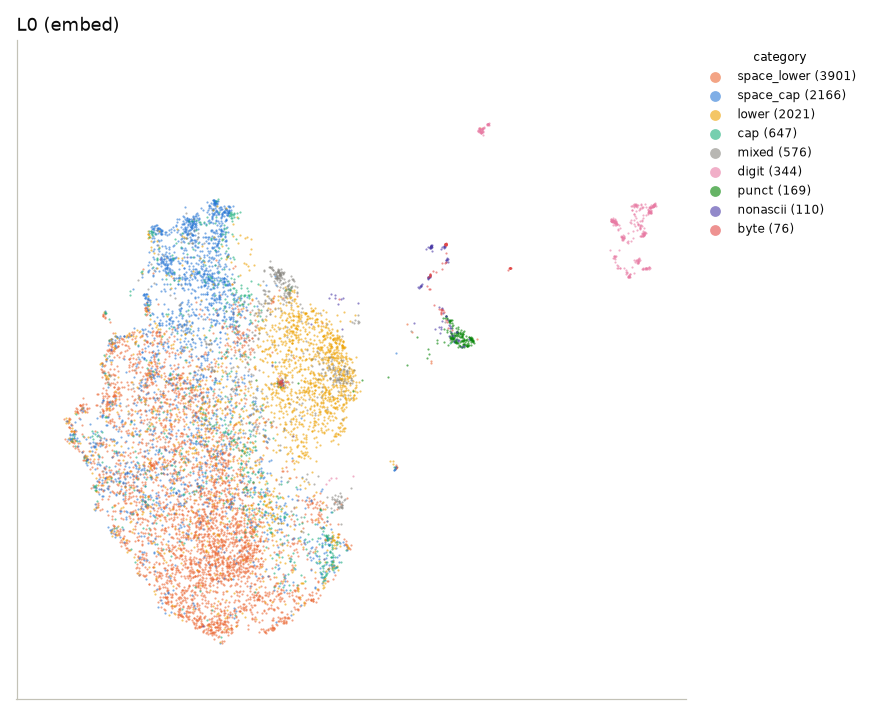
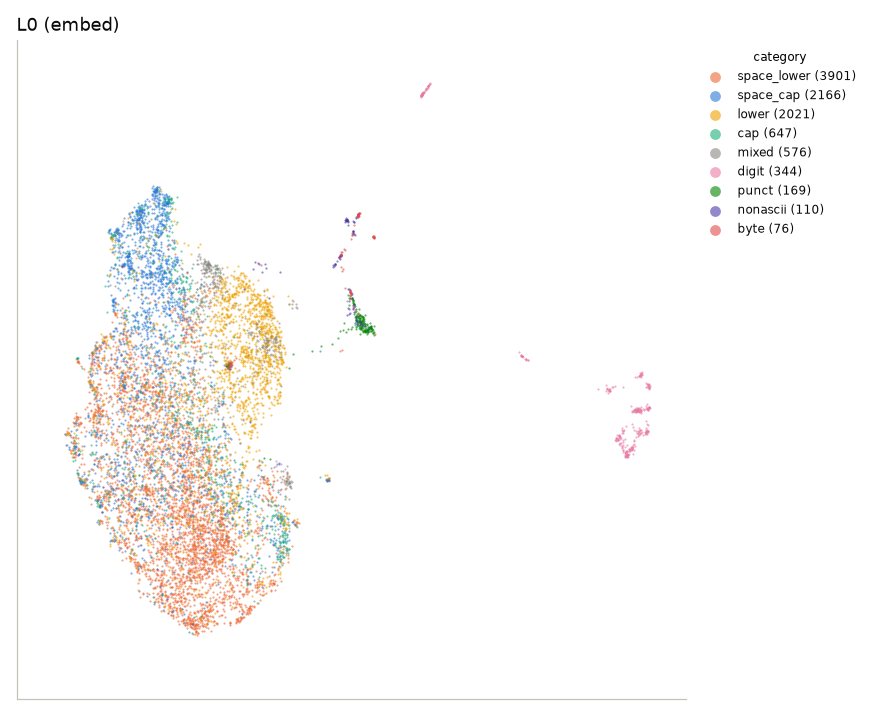
Q2: drop_top_pcs=2 and row_norm_first variants; refresh figures for the pre-LN frame
Middle plateau and GPT-2 LN cliff survive both; Pythia's L5->L6 pre-LN dip was the
pipeline. FINDINGS section 9, README section, Q2 answered. docs/results figures
regenerated (frame indices shifted by one after the pre-LN frame).

diff --git a/docs/FINDINGS.md b/docs/FINDINGS.md
@@ -217,3 +217,55 @@ something big happens. Added to OPEN_QUESTIONS under Q2.
 Random init sanity check: an untrained LN has gain 1, bias 0, so it should only
 rescale. Its pre -> post overlap is 0.91 (not 1.0 because the LN also subtracts each
 row's own mean).
+
+## 9. Q2: does the normalization change the story? (2026-09-24)
+
+Two variants of the normalize stage, both trained models, everything else identical
+(same extract, same 10k subsample): `drop2` = `drop_top_pcs: 2`, `rownorm` =
+`row_norm_first: true` (unit-norm rows, *then* center, then unit-norm again). Raw-act
+metrics (anisotropy, top-PC share) are identical across variants by construction.
+Plots: `docs/results/q2_*.png`.
+
+Consecutive kNN overlap, base / drop2 / rownorm:
+
+| transition | pythia70m | gpt2 |
+|---|---|---|
+| L0 -> L1 | 0.36 / 0.41 / 0.37 | 0.42 / 0.44 / 0.42 |
+| middle, range | 0.36-0.56 / 0.40-0.57 / 0.39-0.58 | 0.68-0.78 / 0.69-0.78 / 0.69-0.79 |
+| L(n-1) -> pre-LN | **0.24** / 0.46 / 0.45 | 0.40 / 0.61 / 0.57 |
+| pre-LN -> post-LN | **0.29** / 0.68 / 0.79 | **0.09** / 0.18 / 0.15 |
+| post-LN -> unembed | 0.14 / 0.14 / 0.14 | 0.05 / 0.10 / 0.07 |
+
+What holds:
+
+- **The stable middle is not a normalization artefact.** Middle-layer overlap moves by
+  at most ~0.05 in either model (GPT-2 L10 -> L11 is the biggest mover, 0.68 -> 0.76
+  under rownorm). k-means ARI agrees.
+- **GPT-2's final-LN cliff is real.** 0.09 becomes 0.18 / 0.15, still by far the worst
+  step, and drift-from-L0 still collapses at post-LN (0.05 / 0.10 / 0.07).
+- **Q3 survives.** Pythia's embed-vs-unembed overlap (0.22) stays above every L6 frame
+  vs the unembed under every variant (0.08 to 0.15).
+
+What doesn't:
+
+- **Pythia's L5 -> L6 pre-LN "reshuffle" was the pipeline.** Either variant turns it
+  into an ordinary step (0.46 / 0.45), and pre-LN purity comes back from 0.59 to 0.68.
+  Confirms section 8: center-then-unit-norm magnifies a per-token spread along one
+  big shared direction, and removing that direction (drop2) or the length differences
+  (rownorm) fixes it about equally.
+
+Costs, which is why neither becomes the default:
+
+- **drop2 throws away real structure in GPT-2.** Middle-layer purity drops 0.77 ->
+  0.66 at L6 (Pythia loses up to 0.06, at L0 and the unembed). So GPT-2's top two PCs in the middle are partly
+  surface form, not just "the cone". All-but-the-top assumes the top PCs are junk,
+  and here they aren't entirely.
+- **rownorm breaks the translation sanity check.** GPT-2's L0 is `wte + wpe[1]` and the
+  unembed is `wte`. Centering first removes the constant `wpe[1]` exactly, so L0 vs
+  unembed overlap is 0.999. Normalizing rows first means a shared offset no longer
+  cancels, and it drops to 0.905. Anywhere a layer is "the previous one plus a
+  constant", rownorm will report change that isn't there.
+
+Takeaway: keep center-then-unit-norm as the default, and check any surprising frame
+against rownorm. If the surprise survives both, it's the model.
+

diff --git a/README.md b/README.md
@@ -124,14 +124,15 @@ maximum explainable variance) need multiple contexts per word: v1.
 
 ![gpt2 metric curves](docs/results/gpt2_metrics.png)
 
-| layer 0 (wte + wpe[1]) | L12 (post final-LN) |
-|---|---|
-| ![](docs/results/gpt2_L0.png) | ![](docs/results/gpt2_L12.png) |
+| layer 0 (wte + wpe[1]) | L12 pre final-LN (hook) | L12 post final-LN |
+|---|---|---|
+| ![](docs/results/gpt2_L0.png) | ![](docs/results/gpt2_L12_preLN.png) | ![](docs/results/gpt2_L12.png) |
 
 Flipbook: [`docs/results/gpt2_flipbook.gif`](docs/results/gpt2_flipbook.gif). The L12
 frame is a hollow ring: after centering, a representation dominated by one huge shared
 direction leaves the tokens on a shell around it. Surface form is still visible on the
-ring (purity 0.63), just smeared.
+ring (purity 0.63), just smeared. The pre-LN frame next to it is an ordinary layer:
+the ring is made by the LN.
 
 `configs/gpt2.yaml`. Tied embeddings, so the unembed frame *is* layer 0 again: kNN
 overlap 0.999 and CKA 1.00 between them, which is the sanity check passing, not a
@@ -152,5 +153,24 @@ finding. What is a finding:
 
 **Timing.** extract 18 s on an RTX 5060, metrics ~30 s, AlignedUMAP on 10k tokens x 8
 frames **48 minutes** when two runs share the CPU, 19 minutes for GPT-2's 14 frames
-running alone. The flipbook is the whole budget; `viz.method: stacked_umap` is the fast
+running alone. (Re-runs on 2026-09-24 were much faster: 6 min for Pythia's 9 frames,
+12 min for GPT-2's 15. Not sure why; nothing in `viz.py` changed.) The flipbook is the whole budget; `viz.method: stacked_umap` is the fast
 knob if you want a quick loop.
+
+## Does the normalization change the story? (Q2, 2026-09-24)
+
+Two variants of the normalize stage, for both trained models: `drop_top_pcs: 2`
+(remove the two biggest shared directions after centering) and `row_norm_first: true`
+(scale every row to length 1 *before* centering, roughly what the model's own
+LayerNorm does). Configs `configs/*_drop2.yaml`, `configs/*_rownorm.yaml`.
+
+| pythia-70m | gpt-2 |
+|---|---|
+| ![](docs/results/q2_pythia70m.png) | ![](docs/results/q2_gpt2.png) |
+
+The middle-layer plateau and GPT-2's final-LN cliff survive both variants. Pythia's dip
+at L5 -> L6 pre-LN doesn't: under either variant it's an ordinary step (0.24 -> 0.46),
+so that one was our pipeline, not the model. Each variant has a cost, though: dropping
+PCs takes surface-form signal out of GPT-2's middle layers, and normalizing rows first
+breaks the exact removal of a shared offset. Numbers in FINDINGS section 9.
+

diff --git a/docs/OPEN_QUESTIONS.md b/docs/OPEN_QUESTIONS.md
@@ -28,17 +28,11 @@ The 09-18 "massive dimension = large LN gains" reading was wrong for Pythia.
 
 ### Q2. Does `drop_top_pcs` change the story?
 
-EXPERIMENT.md says try 0 and 2; only 0 has run. Given Q1, the top PC at the post-LN
-layer carries 41% of the variance in Pythia, so dropping it will change that frame a
-lot and probably nothing else much.
-
-Do: `drop_top_pcs: 2` config variants for both models, compare the four curves. Expect
-the hollow ring at the last layer to fill in.
-
-New since Q1 (2026-09-24): the *order* of normalization matters too. Center-then-unit-norm
-(what we do) vs unit-norm-then-center changes Pythia's L5 -> L6 pre-LN overlap from 0.24
-to 0.43 and pre -> post-LN from 0.29 to 0.80. Worth a `row_norm_first` option next to
-`drop_top_pcs`, and running both on all frames, not just the last ones.
+**Answered 2026-09-24** (FINDINGS section 9). Ran `drop_top_pcs: 2` and a new
+`row_norm_first: true` for both models. The stable middle, GPT-2's LN cliff and Q3 all
+survive. Pythia's L5 -> L6 pre-LN dip doesn't (0.24 -> 0.46): that was the pipeline.
+drop2 costs GPT-2 surface-form purity in the middle (0.77 -> 0.66); rownorm breaks the
+exact removal of shared offsets (GPT-2 L0 vs unembed 0.999 -> 0.905). Default stays.
 
 ### Q3. Why is Pythia's input embedding closer to the unembed than the last hidden state is?
 

diff --git a/GLOSSARY.md b/GLOSSARY.md
@@ -140,3 +140,13 @@ Correction to **massive-activation dimension** and **LayerNorm** above (09-18 en
 for Pythia the big L6 direction is *not* made by large LN gains. It's already in the
 pre-LN residual (65% top PC) and the gain barely changes it. For GPT-2 the gain *does*
 make it: coordinate 496 has gain 17.4 vs median 1.25.
+
+**all-but-the-top** — Mu & Viswanath (2018): center, then project out the top few
+principal components, on the theory that they're shared "cone" directions and not
+meaning. Our `drop_top_pcs`. Q2 found it's not free: in GPT-2's middle layers the top
+two PCs carry some surface-form signal (purity 0.77 -> 0.66).
+
+**robustness check / variant run** — re-running the same measurement with one choice
+changed (here: the normalization) to see whether a result is about the model or about
+the choice. A finding that survives every variant is about the model. Came up in: Q2,
+`configs/*_drop2.yaml`, `configs/*_rownorm.yaml`.
